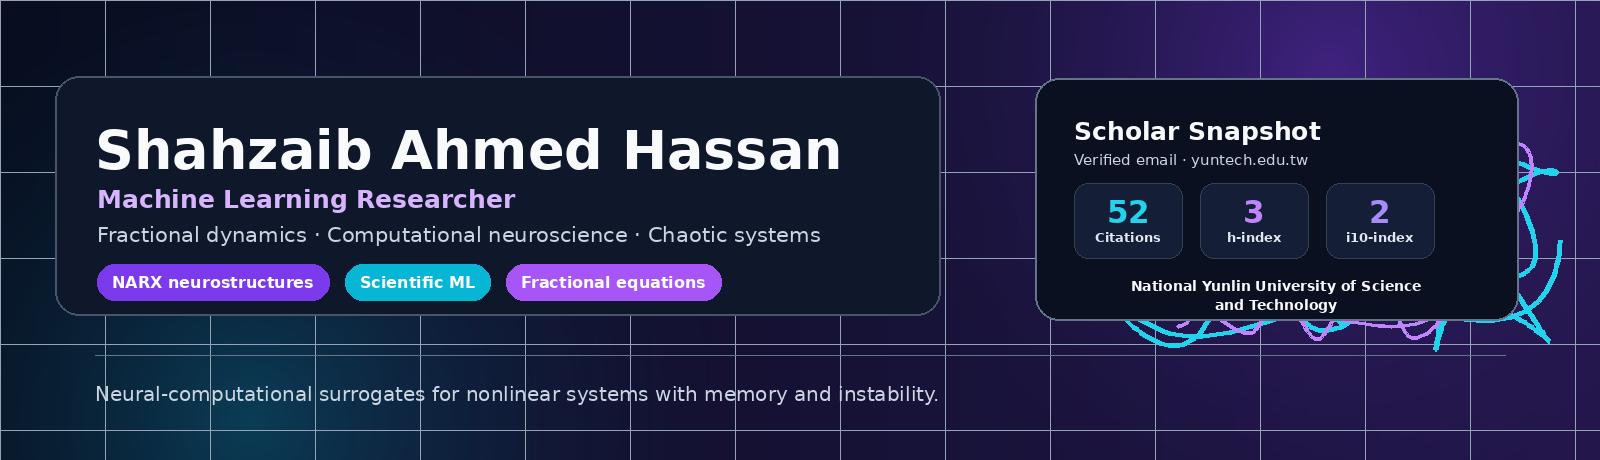
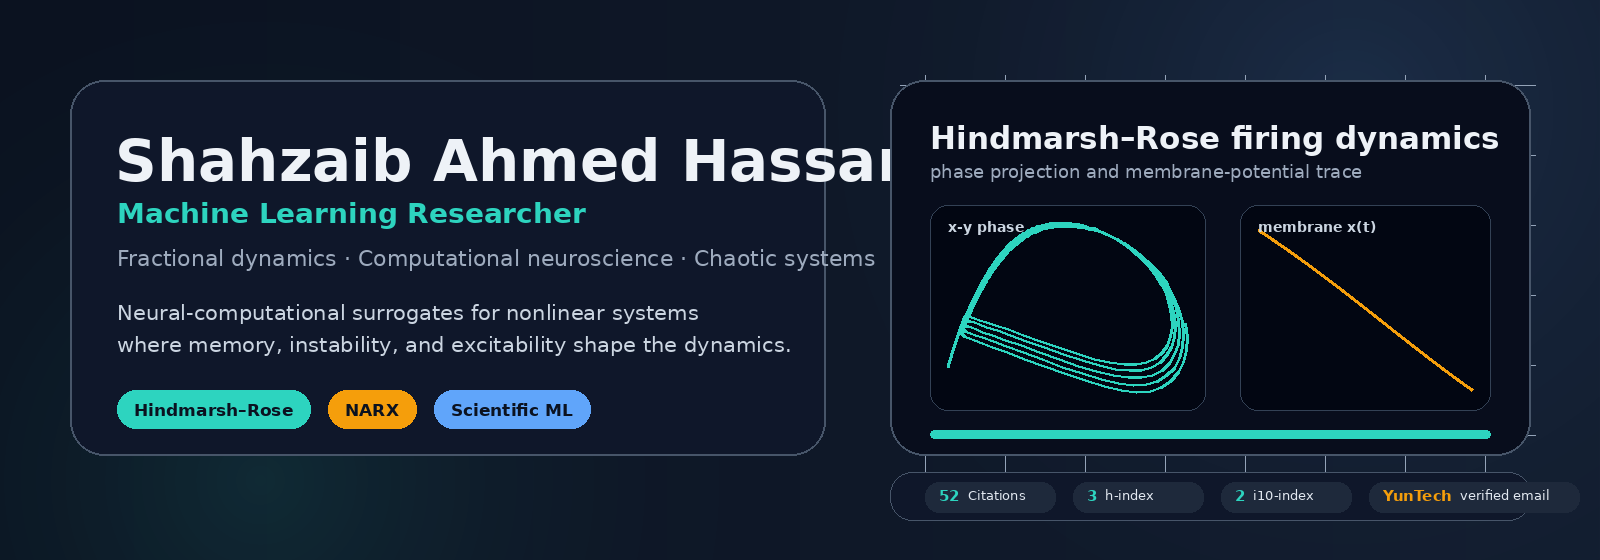
Redesign profile

diff --git a/README.md b/README.md
@@ -7,14 +7,14 @@
     <img alt="Google Scholar" src="https://img.shields.io/badge/Google%20Scholar-Shahzaib%20Ahmed%20Hassan-4285F4?style=for-the-badge&logo=googlescholar&logoColor=white">
   </a>
   <a href="mailto:m11217081@yuntech.edu.tw">
-    <img alt="Email" src="https://img.shields.io/badge/Email-m11217081%40yuntech.edu.tw-111827?style=for-the-badge&logo=gmail&logoColor=white">
+    <img alt="Email" src="https://img.shields.io/badge/Email-m11217081%40yuntech.edu.tw-0F172A?style=for-the-badge&logo=gmail&logoColor=white">
   </a>
 </p>
 
 <p align="center">
-  <img alt="Citations" src="https://img.shields.io/badge/Citations-52-7C3AED?style=flat-square">
-  <img alt="h-index" src="https://img.shields.io/badge/h--index-3-06B6D4?style=flat-square">
-  <img alt="i10-index" src="https://img.shields.io/badge/i10--index-2-A78BFA?style=flat-square">
+  <img alt="Citations" src="https://img.shields.io/badge/Citations-52-2DD4BF?style=flat-square">
+  <img alt="h-index" src="https://img.shields.io/badge/h--index-3-60A5FA?style=flat-square">
+  <img alt="i10-index" src="https://img.shields.io/badge/i10--index-2-F59E0B?style=flat-square">
   <img alt="Affiliation" src="https://img.shields.io/badge/National%20Yunlin%20University%20of%20Science%20and%20Technology-Taiwan-334155?style=flat-square">
 </p>
 
@@ -33,32 +33,29 @@ I work on **machine-learning-driven computational modeling** for nonlinear, chao
 <table>
   <tr>
     <td width="33%" valign="top">
-      <h3>Core Systems</h3>
+      <h3>Systems</h3>
       <ul>
         <li>Fractional-order dynamics</li>
         <li>Chaotic attractors</li>
         <li>Neuronal firing models</li>
         <li>Bioelectrical systems</li>
-        <li>Biological prediction models</li>
       </ul>
     </td>
     <td width="33%" valign="top">
       <h3>Methods</h3>
       <ul>
         <li>NARX neurostructures</li>
-        <li>Bayesian-regularized networks</li>
-        <li>Deep autoregressive models</li>
-        <li>Machine predictive networks</li>
+        <li>Bayesian regularization</li>
+        <li>Deep autoregression</li>
         <li>Scientific ML surrogates</li>
       </ul>
     </td>
     <td width="33%" valign="top">
-      <h3>Research Direction</h3>
+      <h3>Outputs</h3>
       <ul>
-        <li>Long-memory modeling</li>
-        <li>Nonlinear prediction</li>
-        <li>Dynamic reconstruction</li>
-        <li>Computational intelligence</li>
+        <li>Prediction</li>
+        <li>Reconstruction</li>
+        <li>Excitability analysis</li>
         <li>Reproducible simulation</li>
       </ul>
     </td>
@@ -67,10 +64,10 @@ I work on **machine-learning-driven computational modeling** for nonlinear, chao
 
 ---
 
-## Visual Research Thread
+## Hindmarsh–Rose Visual Thread
 
 <p align="center">
-  <img src="assets/profile/research-animation.gif" alt="Animated fractional chaotic neurocomputing research thread" width="100%">
+  <img src="assets/profile/hindmarsh-rose.gif" alt="Animated Hindmarsh–Rose neuron dynamics" width="100%">
 </p>
 
 ---
@@ -107,9 +104,9 @@ Full publication record: **[Google Scholar](https://scholar.google.com/citations
   <img alt="LaTeX" src="https://img.shields.io/badge/LaTeX-008080?style=flat-square&logo=latex&logoColor=white">
   <img alt="Markdown" src="https://img.shields.io/badge/Markdown-000000?style=flat-square&logo=markdown&logoColor=white">
   <br>
-  <img alt="Machine Learning" src="https://img.shields.io/badge/Machine%20Learning-7C3AED?style=flat-square">
-  <img alt="Scientific Computing" src="https://img.shields.io/badge/Scientific%20Computing-06B6D4?style=flat-square">
-  <img alt="Dynamical Systems" src="https://img.shields.io/badge/Dynamical%20Systems-A78BFA?style=flat-square">
+  <img alt="Machine Learning" src="https://img.shields.io/badge/Machine%20Learning-2DD4BF?style=flat-square">
+  <img alt="Scientific Computing" src="https://img.shields.io/badge/Scientific%20Computing-60A5FA?style=flat-square">
+  <img alt="Dynamical Systems" src="https://img.shields.io/badge/Dynamical%20Systems-F59E0B?style=flat-square">
   <img alt="Computational Neuroscience" src="https://img.shields.io/badge/Computational%20Neuroscience-334155?style=flat-square">
 </p>
 
